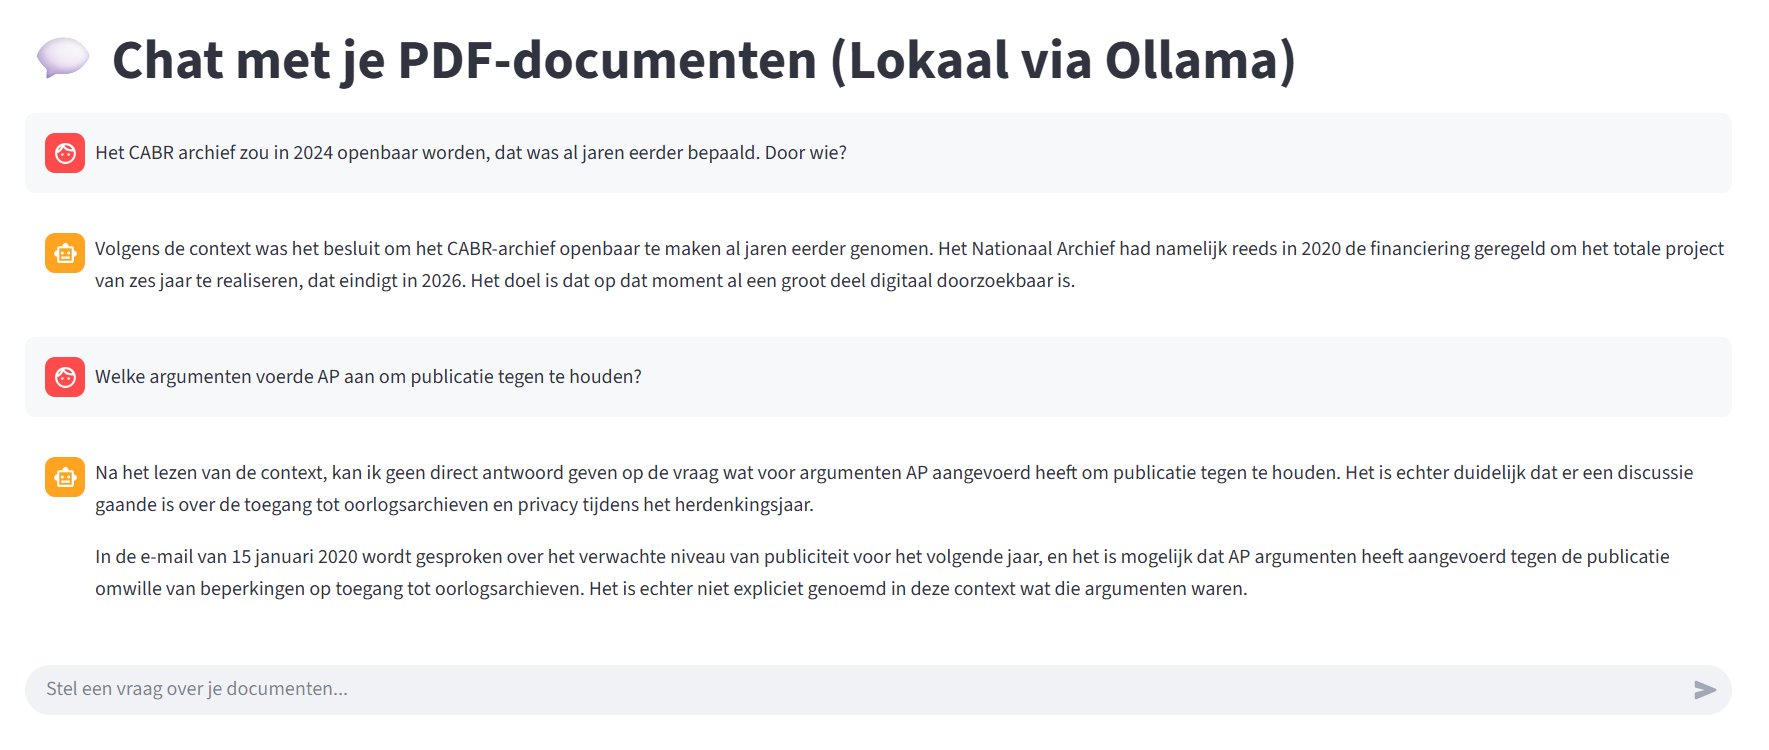
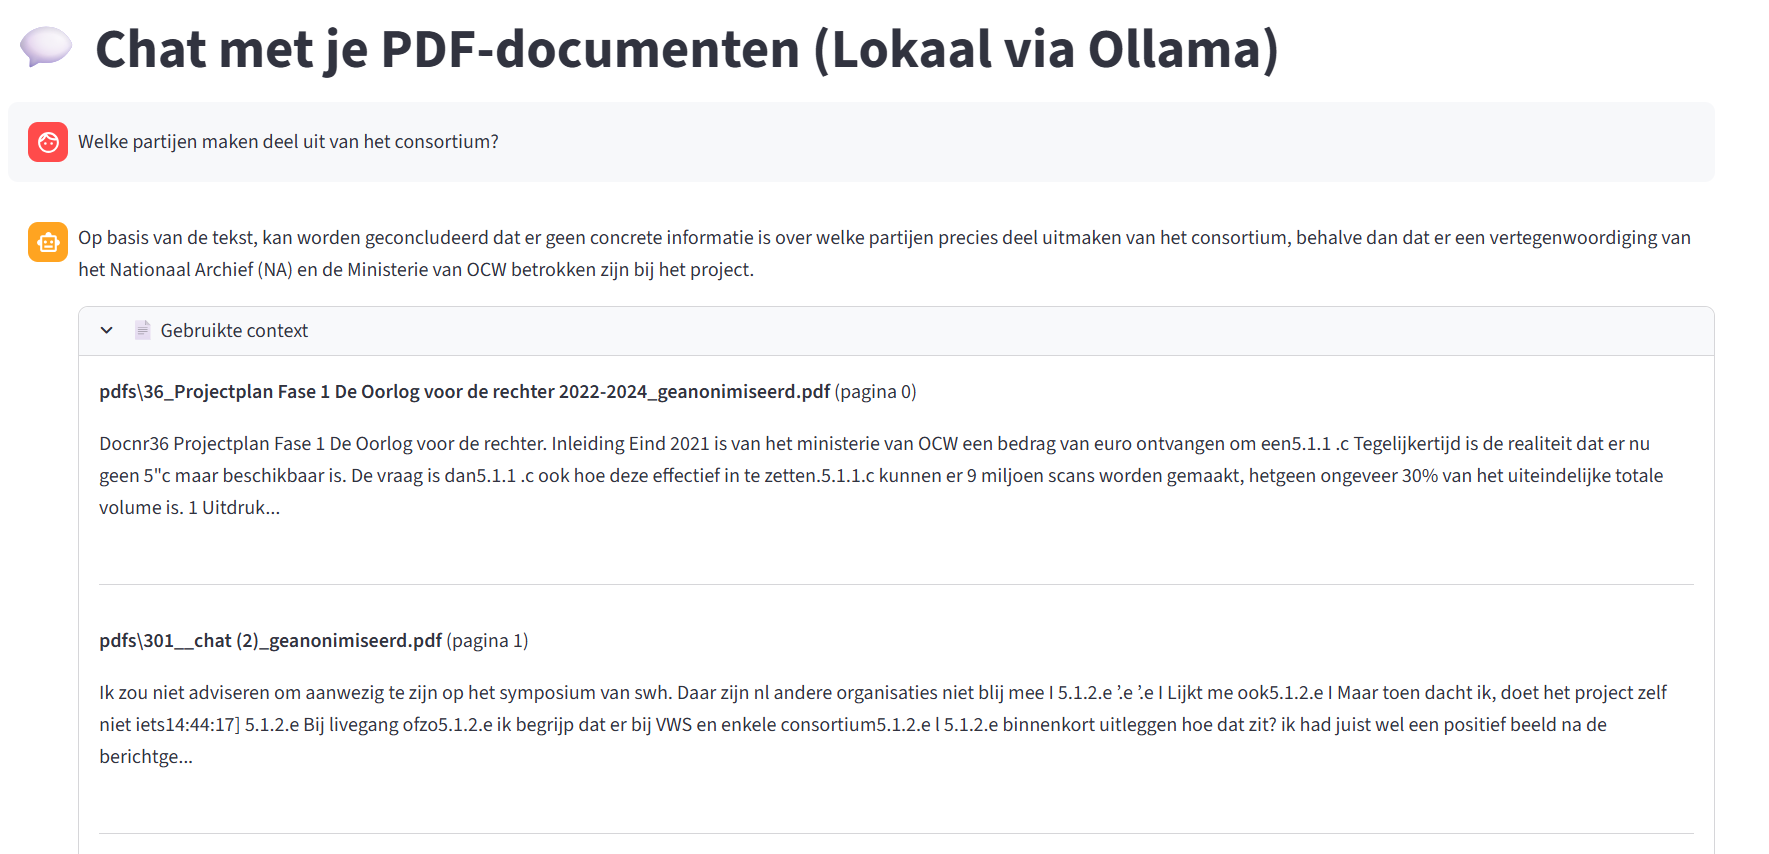
toon ook de context

diff --git a/pdf_qa_app.py b/pdf_qa_app.py
@@ -40,7 +40,7 @@ def run_llm(llm, prompt, context, question):
 # Streamlit App
 # ===============================
 st.set_page_config(page_title="PDF Chat", page_icon="💬", layout="wide")
-st.title("Chat met je PDF-documenten (lokaal via Ollama)")
+st.title("Chat met je PDF-documenten (Lokaal via Ollama)")
 
 with st.spinner("Laden van vector database..."):
     db = load_vectorstore()
@@ -48,7 +48,7 @@ with st.spinner("Laden van vector database..."):
 retriever = db.as_retriever()
 llm = OllamaLLM(model=MODEL_NAME)
 
-template = """Gebruik de onderstaande context om de vraag te beantwoorden.
+template = """Beantwoord de vraag in het Nederlands, gebruik makend van de onderstaande context.
 Context:
 {context}
 
@@ -64,6 +64,12 @@ if "messages" not in st.session_state:
 for msg in st.session_state.messages:
     with st.chat_message(msg["role"]):
         st.markdown(msg["content"])
+        if msg.get("sources"):
+            with st.expander("Gebruikte context"):
+                for src in msg["sources"]:
+                    st.markdown(f"**{src['source']}** (pagina {src['page']})")
+                    st.write(src["snippet"])
+                    st.divider()
 
 # Invoerveld onderaan
 if question := st.chat_input("Stel een vraag over je documenten..."):
@@ -77,7 +83,29 @@ if question := st.chat_input("Stel een vraag over je documenten..."):
         context = "\n\n".join(d.page_content for d in docs)
         answer = run_llm(llm, prompt, context, question)
 
-    # Toon antwoord in de chat
+    # Bereid broninfo voor
+    sources = []
+    for d in docs:
+        meta = d.metadata or {}
+        snippet = d.page_content[:400].replace("\n", " ") + "..."
+        sources.append({
+            "source": meta.get("source", "Onbekend document"),
+            "page": meta.get("page", "n.v.t."),
+            "snippet": snippet
+        })
+
+    # Toon antwoord + bronnen in de chat
     with st.chat_message("assistant"):
         st.markdown(answer)
-    st.session_state.messages.append({"role": "assistant", "content": answer})
+        with st.expander("📄 Gebruikte context"):
+            for src in sources:
+                st.markdown(f"**{src['source']}** (pagina {src['page']})")
+                st.write(src["snippet"])
+                st.divider()
+
+    # Sla bericht + bronnen op in sessie
+    st.session_state.messages.append({
+        "role": "assistant",
+        "content": answer,
+        "sources": sources
+    })
